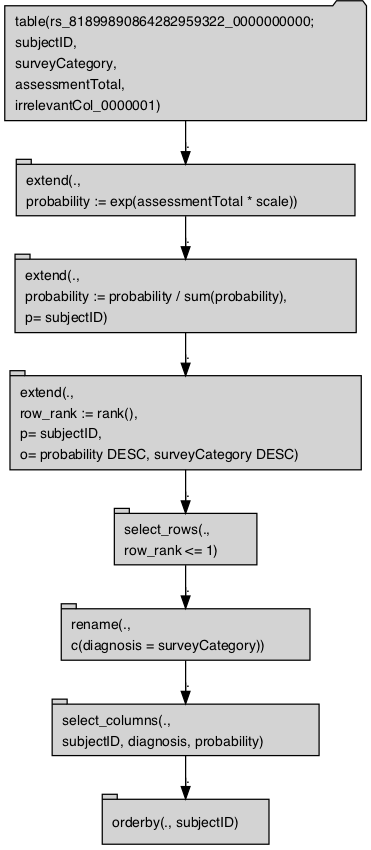
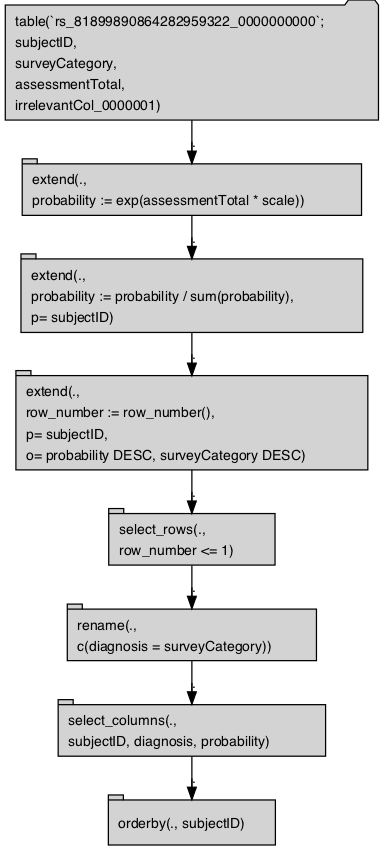
edit

diff --git a/README.md b/README.md
@@ -272,14 +272,14 @@ cat(to_sql(dq, my_db, source_limit = 1000))
             "assessmentTotal"
            FROM
             "d" LIMIT 1000
-           ) tsql_15866317037383994053_0000000000
-          ) tsql_15866317037383994053_0000000001
-         ) tsql_15866317037383994053_0000000002
-       ) tsql_15866317037383994053_0000000003
+           ) tsql_69579595981500324616_0000000000
+          ) tsql_69579595981500324616_0000000001
+         ) tsql_69579595981500324616_0000000002
+       ) tsql_69579595981500324616_0000000003
        WHERE "row_number" <= 1
-      ) tsql_15866317037383994053_0000000004
-     ) tsql_15866317037383994053_0000000005
-    ) tsql_15866317037383994053_0000000006 ORDER BY "subjectID"
+      ) tsql_69579595981500324616_0000000004
+     ) tsql_69579595981500324616_0000000005
+    ) tsql_69579595981500324616_0000000006 ORDER BY "subjectID"
 
 The query is large, but due to its regular structure it should be very amenable to query optimization.
 

diff --git a/extras/SparkR.md b/extras/SparkR.md
@@ -20,7 +20,7 @@ library("rquery")
 print(db_hdl)
 ```
 
-    ## [1] "rquery_db_info(is_dbi=FALSE, SparkR, <environment: 0x7ff3b10275b0>)"
+    ## [1] "rquery_db_info(is_dbi=FALSE, SparkR, <environment: 0x7fea1e397d88>)"
 
 ``` r
 print(test_df)
@@ -34,7 +34,7 @@ d_hdl <- sparkr_table(db_hdl, test_df)
 print(d_hdl)
 ```
 
-    ## [1] "table('rs_81899890864282959322_0000000000'; subjectID, surveyCategory, assessmentTotal, irrelevantCol_0000001)"
+    ## [1] "table('`rs_81899890864282959322_0000000000`'; subjectID, surveyCategory, assessmentTotal, irrelevantCol_0000001)"
 
 ``` r
 print(column_names(d_hdl))
